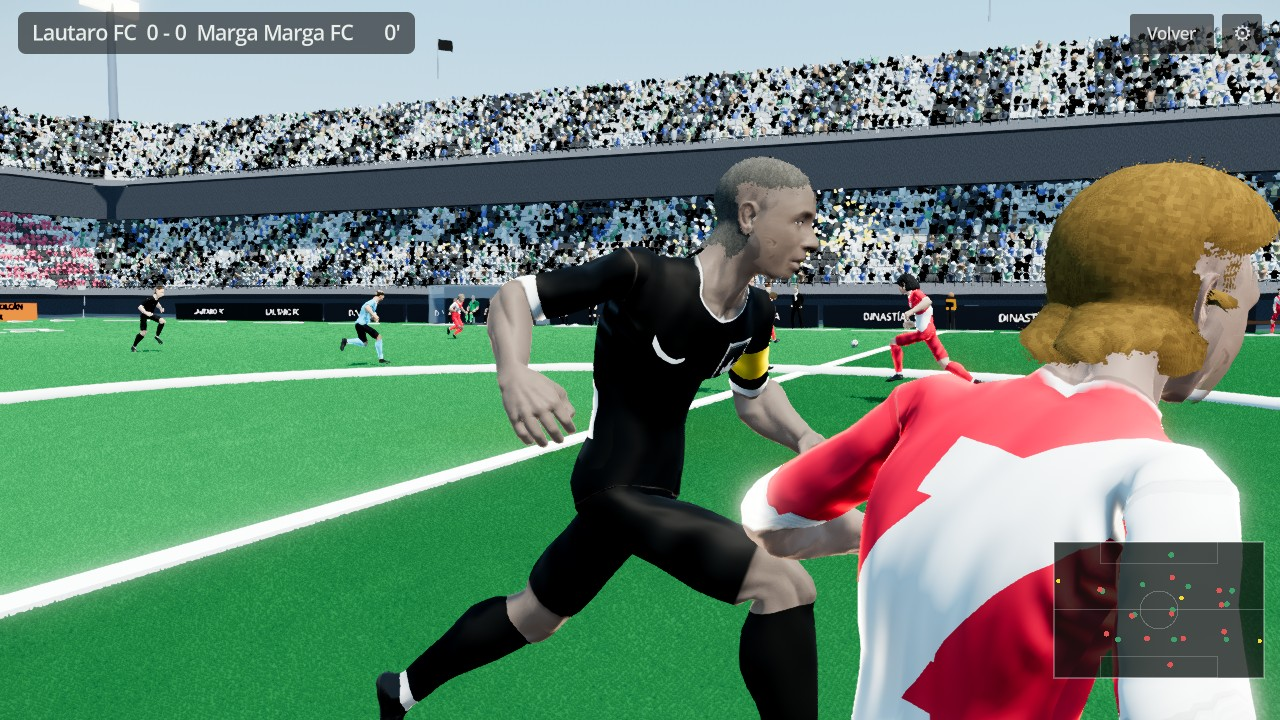
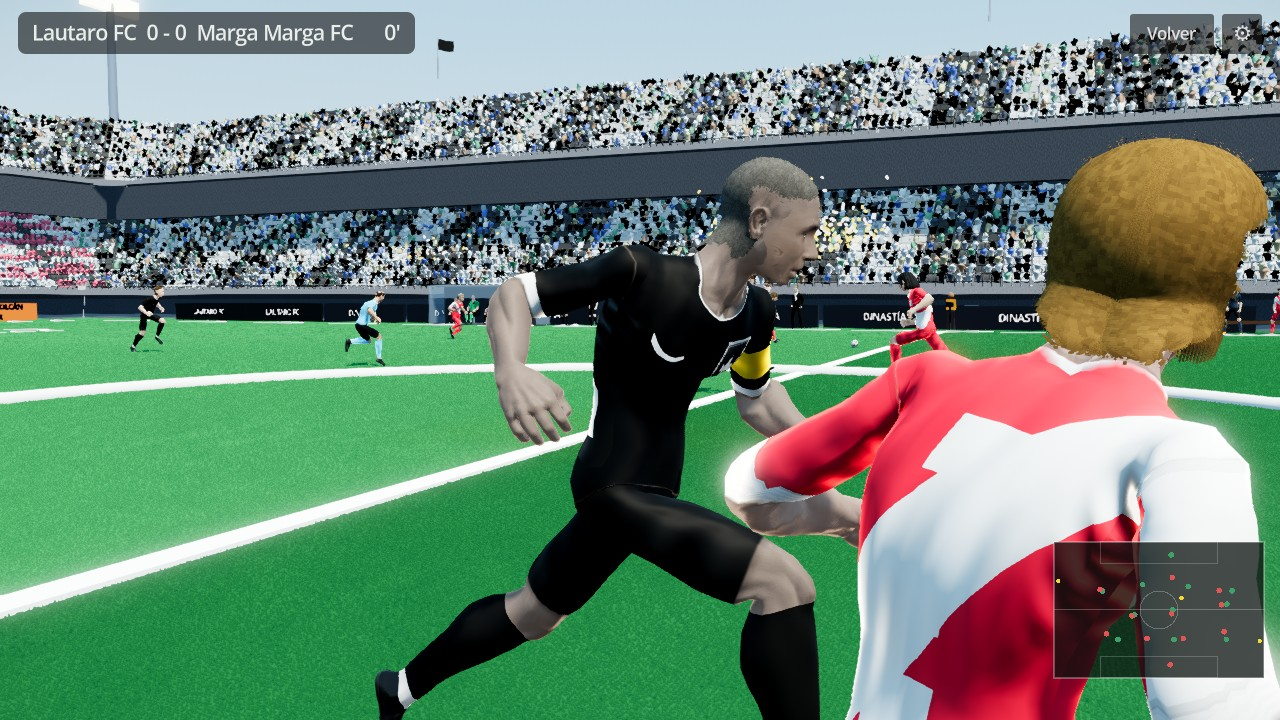
Lista de mejoras: la cabeza de los jugadores sigue al balón (M-098)
Claude-Session: https://claude.ai/code/session_01ARN9gScwNAgW7YBZZkCunU

diff --git a/dinastia-godot/ESTADO_MEJORAS.md b/dinastia-godot/ESTADO_MEJORAS.md
@@ -156,7 +156,7 @@ Hecho 10 % · parcial 25 % · pendiente 60 % · del dueño 2 % · sin verificar 
 | M-095 | P1 | 335 clips; muchos sin uso en partido | PENDIENTE | sin auditoría automática de clips usados |
 | M-096 | P2 | Transiciones entre clips con mezcla fija 0,25 s | PENDIENTE | mezcla fija entre clips |
 | M-097 | P2 | Retarget con pies que patinan | PARCIAL | IK de piernas solo en la ciudad (`AnimQuaternius._ik_pierna`); sin foot locking en partido |
-| M-098 | P2 | Sin IK de mirada (cabeza sigue balón) | PENDIENTE | sin IK de mirada al balón |
+| M-098 | P2 | Sin IK de mirada (cabeza sigue balón) | HECHO | 21-10: `visor/mirada_balon.gd`: un `LookAtModifier3D` en el hueso Head de cada jugador apuntando al balón (topes 65°/30°, suavizado 0,5 s), en el modo DT y en la Carrera; comprobado con `captura_mirada` (balón a un lado y al otro) |
 | M-099 | P2 | Cuerpos sin colisión entre brazos/piernas (solapes sólo en XZ) | PARCIAL | cuerpos que se empujan y duelos en el motor (`MotorJugable._cuerpos`, 17-10), en 2D; sin cápsulas 3D |
 | M-100 | P2 | Sin respiración/cansancio visible (manos a rodillas) | HECHO | `MotorJugable` pone el clip «cansado» (manos a rodillas) con forma < 0,6 (l.3440) |
 | M-101 | P2 | Celebraciones por rasgo (ya) pero sólo 2/3 propias | PARCIAL | carrera al córner y abrazo (`_ia_celebracion`); sin 10 por rasgo ni coreografías |
